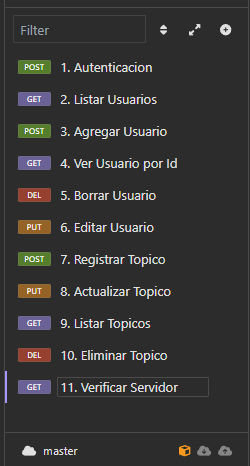
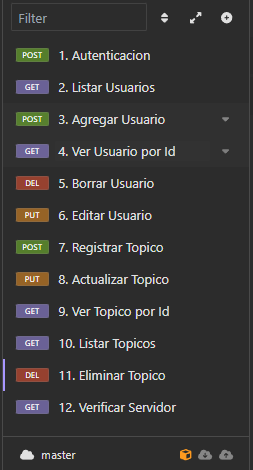
actualizando las migraciones, se agrega topico por id, funciona ok, solo falta agregar topico,

diff --git a/src/main/java/med/voll/api/controller/TopicoController.java b/src/main/java/med/voll/api/controller/TopicoController.java
@@ -9,6 +9,8 @@ import med.voll.api.domain.paciente.DatosRegistroPaciente;
 import med.voll.api.domain.paciente.Paciente;
 import med.voll.api.domain.topicos.*;
 import med.voll.api.domain.usuarios.DatosListadoUsuario;
+import med.voll.api.domain.usuarios.DatosRespuestaUsuario;
+import med.voll.api.domain.usuarios.Usuario;
 import med.voll.api.domain.usuarios.UsuarioRepository;
 import org.springframework.beans.factory.annotation.Autowired;
 import org.springframework.data.domain.Page;
@@ -68,4 +70,19 @@ public class TopicoController
         return ResponseEntity.noContent().build();
     }
 
+    @GetMapping("/{id}")
+    @Operation(summary = "Obtiene los datos de un Topico por Id")
+    public ResponseEntity<DatosRespuestaTopico> retornaDatosTopico(@PathVariable Long id) {
+        Topico topico = topicoRepository.getReferenceById(id);
+        var datosTopico = new DatosRespuestaTopico(
+                topico.getId(),
+                topico.getTitulo(),
+                topico.getMensaje(),
+                topico.getNombreCurso(),
+                topico.getFechaCreacion(),
+                topico.getAutor().getId(),
+                topico.getActivo()
+        );
+        return ResponseEntity.ok(datosTopico);
+    }
 }

diff --git a/src/main/java/med/voll/api/controller/HelloController.java b/src/main/java/med/voll/api/controller/HelloController.java
@@ -1,5 +1,6 @@
 package med.voll.api.controller;
 
+import io.swagger.v3.oas.annotations.Operation;
 import org.springframework.web.bind.annotation.GetMapping;
 import org.springframework.web.bind.annotation.RequestMapping;
 import org.springframework.web.bind.annotation.RestController;
@@ -9,6 +10,7 @@ import org.springframework.web.bind.annotation.RestController;
 public class HelloController {
 
     @GetMapping
+    @Operation(summary = "Para verificar que el servidor este activo")
     public String helloWorld() {
         return "Servidor Funcionando OK!";
     }

diff --git a/src/main/java/med/voll/api/domain/topicos/DatosRespuestaTopico.java b/src/main/java/med/voll/api/domain/topicos/DatosRespuestaTopico.java
@@ -1,4 +1,18 @@
 package med.voll.api.domain.topicos;
 
-public record DatosRespuestaTopico() {
+import med.voll.api.domain.direccion.DatosDireccion;
+
+import java.time.LocalDateTime;
+
+public record DatosRespuestaTopico(
+        Long id,
+        String titulo,
+        String mensaje,
+        String nombre_curso,
+        LocalDateTime fecha_creacion,
+        Long autor,
+        Boolean activo
+)
+{
+
 }

diff --git a/README.md b/README.md
@@ -104,15 +104,19 @@ payload:
 
 ![img.png](src/img/actualizarTopico.png)
 
-### 9. GET: /topicos   Listar todos los Topicos
+### 9. GET: /topicos/{id}   Ver Topico por Id
+
+![img.png](src/img/topicoPorId.png)
+
+### 10. GET: /topicos   Listar todos los Topicos
 
 ![img.png](src/img/listarTopicos.png)
 
-### 10. DELETE: /topicos/{id}   Borrar un Topico
+### 11. DELETE: /topicos/{id}   Borrar un Topico
 
 ![img.png](src/img/borrarTopico.png)
 
-### 11. GET: /hello    Verificar que este funcionando el servidor
+### 12. GET: /hello    Verificar que este funcionando el servidor
 
 ![img.png](src/img/verificarServidor.png)
 
@@ -124,6 +128,7 @@ http://localhost:8080/swagger-ui/index.html
 ## Diagrama Entidad Relación para MySQL
 
 ![img.png](src/img/diagramaEntidadRelacion.png)
+
 
 ![img.png](src/img/muestraBaseDatosTopicos.png)
 
